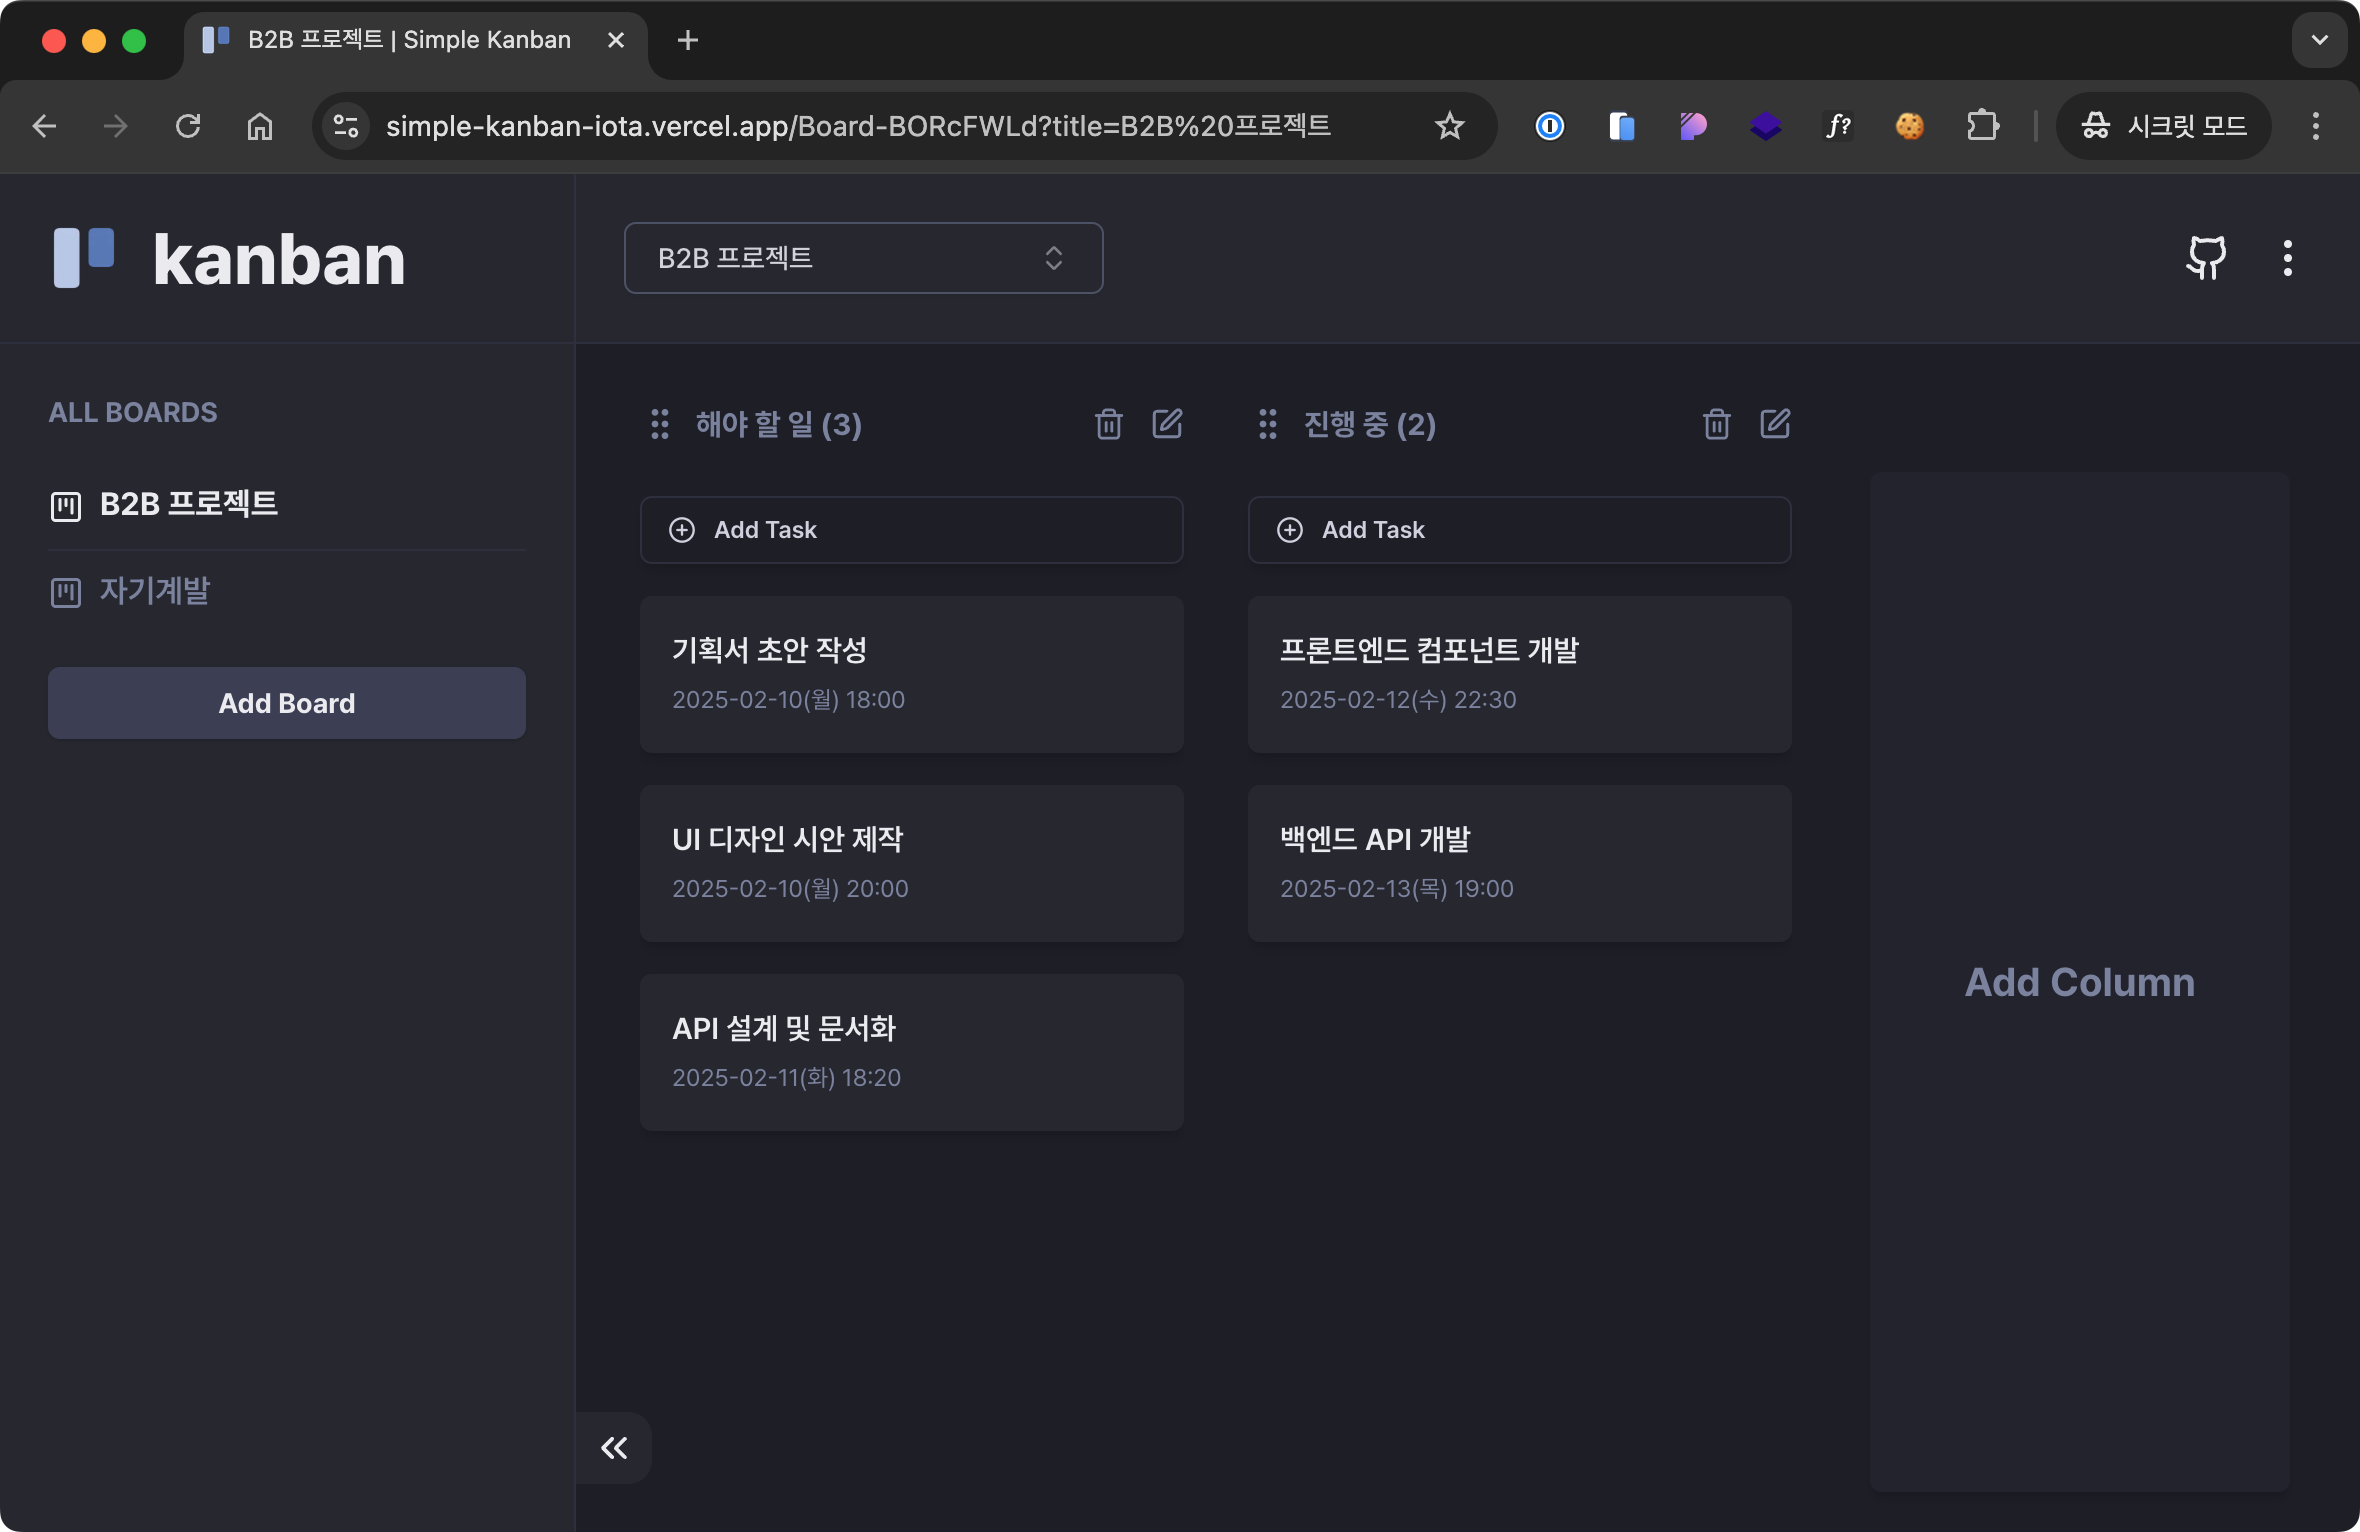
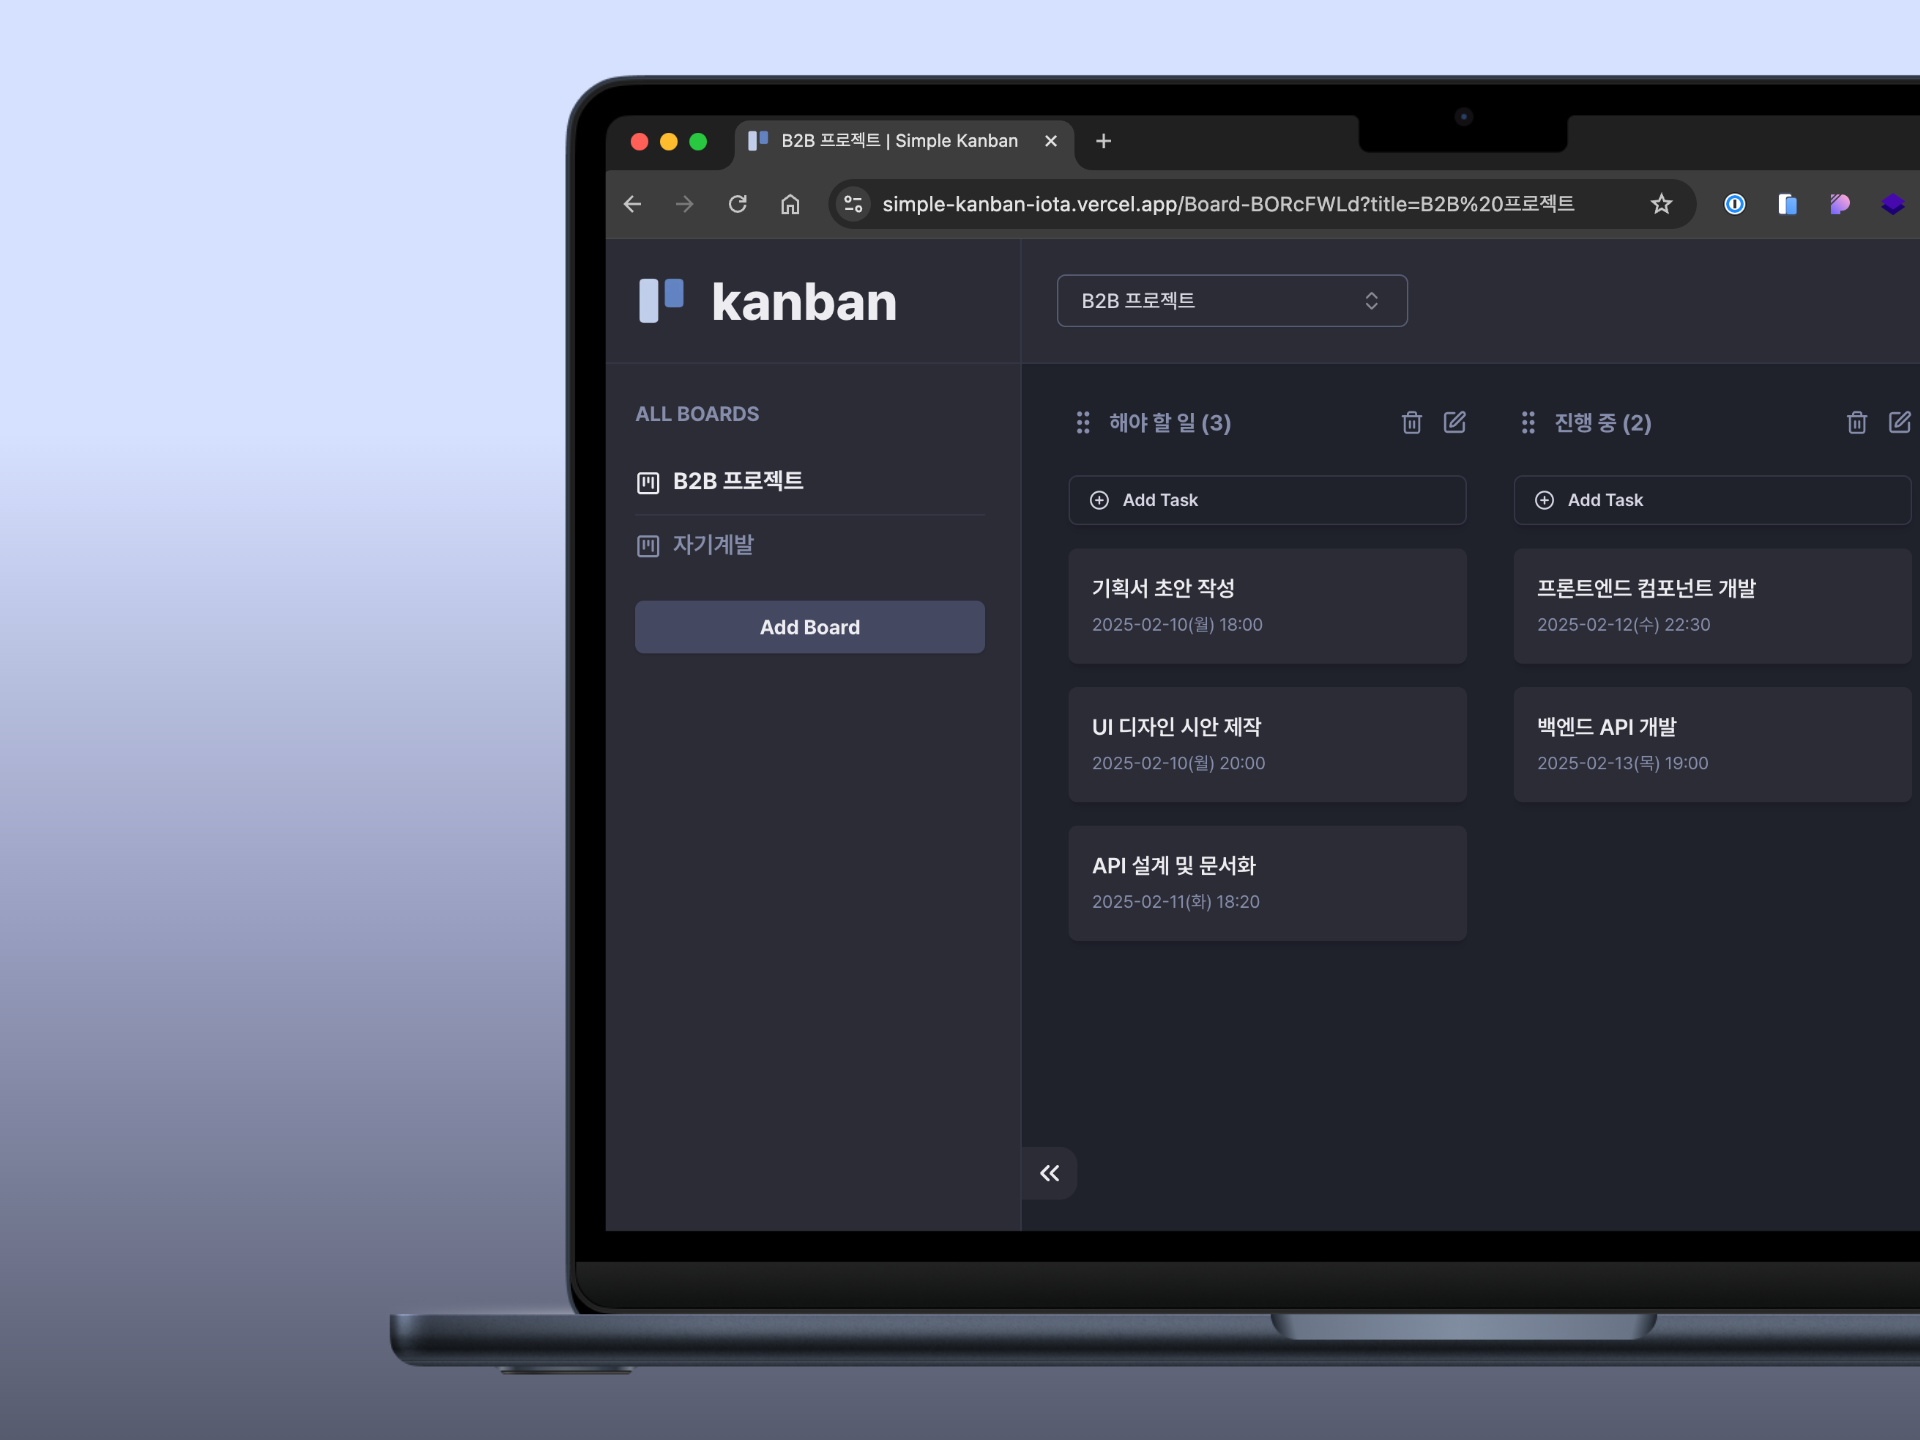
:triangular_flag_on_post: 목업 스크린샷 추가

diff --git a/README.md b/README.md
@@ -464,3 +464,8 @@ const onDragOver = ({ active, over, delta, activatorEvent }: DragOverEvent) => {
 - 칸반 디자인: https://kanban-app-jay.netlify.app
 - 전역 폰트: [Pretendard](https://github.com/orioncactus/pretendard)
 - 드래그앤드롭: [Dnd Kit Sortable](https://docs.dndkit.com/presets/sortable)
+
+## 스크린샷
+
+![desktop-screenshot](./public/screenshot/desktop.png)
+![mobile-screenshot](./public/screenshot/mobile.png)
